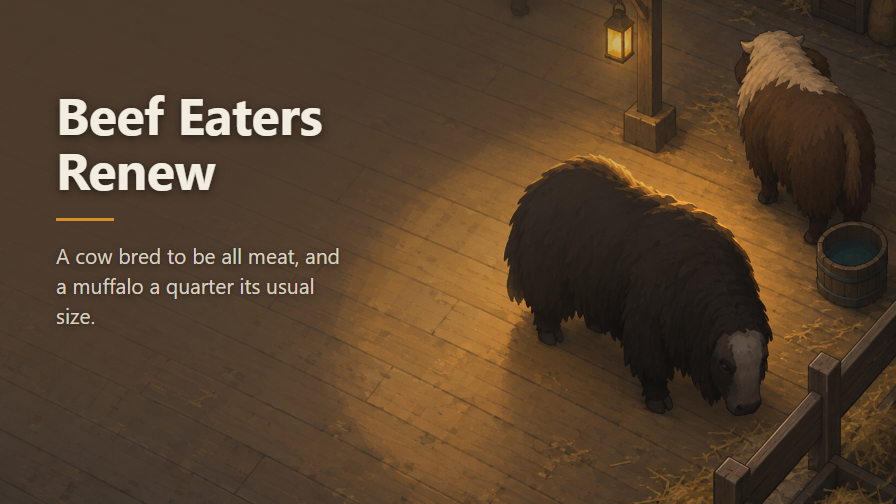
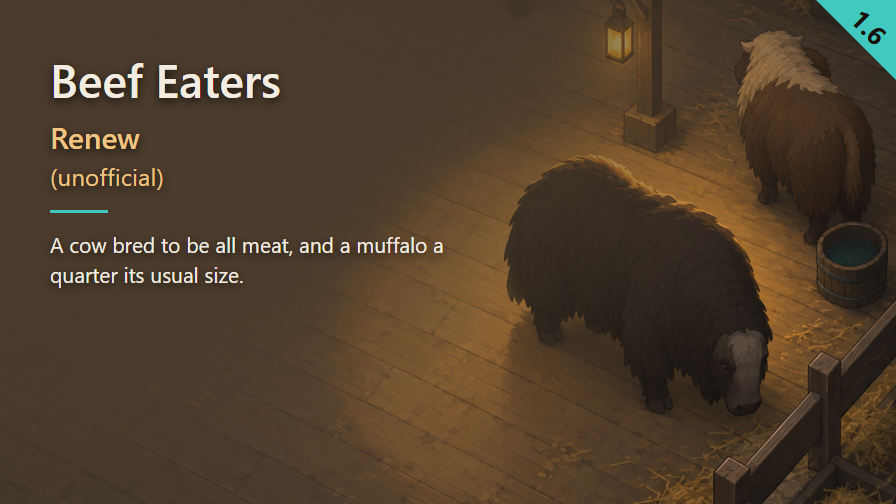
Recompose preview with title hierarchy and verified palette

diff --git a/Art/preview.html b/Art/preview.html
@@ -1,69 +1,37 @@
-<!doctype html><meta charset="utf-8">
-<!--
-  Engraving page for Mod/About/Preview.png, per STYLE_RIMWORLD.md.
-
-  Rasterised with headless Chrome at 896x504, so the glyphs are composed at final size and never
-  resampled. The background is Preview-source.png at full resolution, scaled and cropped here
-  rather than beforehand: starting from an already-reduced Preview.png would resample the picture
-  twice.
-
-    chrome --headless --disable-gpu --screenshot=Mod/About/Preview.png \
-           --window-size=896,504 --hide-scrollbars Art/preview.html
-
-  The source is 1380x1140, close to 6:5, so a third of its height has to go to reach 16:9. The
-  crop is taken low: the top strip is empty plank floor and a settler walking out of frame, while
-  the band below holds the lantern, the lit animal under it and the straw at the fence.
-
-  The veil is the wood of the floor rather than the near-black the first 54 showcases used - the
-  rule of 2026-09-12 is that the veil takes a colour from the picture, and here the picture is a
-  barn floor at night, so the colour it has to give is a warm plank brown. Sampled over the block
-  the text occupies, mean rgb(109,80,50), then taken down a notch to #4A3A2C so it reads as one
-  flat field rather than as a stain over the planks. Its relative luminance is 0.047, well under
-  the 0.18 line, so the ink is the pale one and the text shadows stay: they lift the glyphs off
-  the planks that show through at the end of the wash. The rule keeps the repository amber, which
-  a dark brown carries without trouble.
-
-  No count is engraved. Two animals would be a true number and a pointless one - the summary
-  names them both.
--->
+<!doctype html>
+<meta charset="utf-8">
+<title>Beef Eaters Renew preview</title>
 <style>
-  * { margin:0; padding:0; box-sizing:border-box; }
-  html,body { width:896px; height:504px; overflow:hidden; background:#000; }
-  .stage { position:relative; width:896px; height:504px;
-           font-family:"Segoe UI",system-ui,sans-serif; }
-
-  .shot { position:absolute; inset:0; width:896px; height:504px;
-          object-fit:cover; object-position:50% 62%; }
-
-  /* Repository standard: a wash from the top-left corner, in the dark form, because the veil
-     colour is dark. It lands on the bare plank floor left of the lamp pool, which is the calmest
-     corner of the picture and the one the prompt reserved.
-
-     Two departures from the standard 74% circle, both measured rather than chosen. The lamp pool
-     reaches further left than any of the first 54 pictures did, and the standard wash was dead by
-     the time it met it: the tail of the summary sat at 2.0:1. The wash is stretched to 88% and the
-     text column narrowed from 430 to 392px, which breaks the summary before it reaches the light.
-     Worst point over a glyph is now 6.5:1, against the 4.5:1 the guide asks for. */
-  .veil { position:absolute; inset:0;
-    background: radial-gradient(ellipse 760px 560px at top left, rgba(74,58,44,.94) 0%, rgba(74,58,44,.88) 45%, rgba(74,58,44,0) 100%); }
-
-  .text { position:absolute; left:56px; top:86px; width:392px; }
-  h1 { font-size:52px; line-height:1.06; font-weight:700; color:#F2ECE1; letter-spacing:-.5px;
-       text-shadow:0 2px 10px rgba(0,0,0,.55); }
-  .rule { width:58px; height:3px; background:#D68F2C; margin:22px 0 20px; }
-  /* The summary is 290px wide rather than the repository's 430. Measured on the rendered PNG,
-     with the veil in place: the title rows are safe out to x=500, the summary rows only to 346,
-     because they sit lower and the lamp pool climbs into that column. 56 + 290 = 346. The
-     paragraph runs to three lines instead of two; the alternative was a tail at 2.9:1. */
-  p { font-size:21px; line-height:1.42; color:#D8CFC0; text-shadow:0 1px 6px rgba(0,0,0,.5);
-      width:290px; }
+* { margin:0; padding:0; box-sizing:border-box; }
+html,body,.stage { width:896px; height:504px; overflow:hidden; }
+.stage { position:relative; font-family:"Segoe UI",system-ui,sans-serif; }
+.shot { position:absolute; inset:0; width:896px; height:504px; object-fit:cover; object-position:50% 62%; }
+.veil { position:absolute; inset:0; background:radial-gradient(ellipse 920px 700px at top left, rgb(var(--veilRGB) / .96) 0%, rgb(var(--veilRGB) / .92) 48%, rgb(var(--veilRGB) / 0) 100%); }
+.text { position:absolute; left:50px; top:54px; width:430px; text-shadow:0 3px 10px rgba(0,0,0,.75); }
+h1 { font-size:46px; font-weight:600; line-height:1.1; letter-spacing:0; color:var(--inkPrimary); }
+h1 .title-suffix { font-size:.65em; color:var(--inkSecondary); }
+.tag { margin-top:8px; font-size:24px; font-weight:400; line-height:1.1; letter-spacing:.2px; color:var(--inkSecondary); }
+.rule { width:58px; height:3px; margin:20px 0 16px; background:var(--accent); }
+p { width:430px; font-size:21px; font-weight:400; line-height:1.45; letter-spacing:0; color:var(--inkPrimary); }
+.badge { position:absolute; top:0; right:0; width:80px; height:80px; background:var(--accent); clip-path:polygon(0 0,100% 0,100% 100%); }
+.version { position:absolute; left:869px; top:27px; transform:translate(-50%,-50%) rotate(45deg); color:var(--badgeInk); font-size:26px; font-weight:700; line-height:1; }
 </style>
 <div class="stage">
-  <img class="shot" src="Preview-source.png">
-  <div class="veil"></div>
-  <div class="text">
-    <h1>Beef Eaters<br>Renew</h1>
-    <div class="rule"></div>
-    <p>A cow bred to be all meat, and a muffalo a quarter its usual size.</p>
-  </div>
+<img class="shot" src="Preview.png">
+<div class="veil"></div>
+<div class="text"><h1>Beef Eaters<br><span class="title-suffix">Renew</span></h1><div class="tag">(unofficial)</div><div class="rule"></div><p>A cow bred to be all meat, and a muffalo a quarter its usual size.</p></div>
+<div class="badge"></div><div class="version"></div>
 </div>
+<script>
+window.previewReady = (async () => {
+ const palette = await (await fetch('preview-palette.json')).json();
+ for (const [key,value] of Object.entries(palette)) document.documentElement.style.setProperty('--'+key,value);
+ document.documentElement.style.setProperty('--veilRGB',palette.veil.slice(1).match(/../g).map(v=>parseInt(v,16)).join(' '));
+ const xml = new DOMParser().parseFromString(await (await fetch('../Mod/About/About.xml')).text(),'text/xml');
+ const versions = [...xml.querySelectorAll('supportedVersions > li')].map(n=>n.textContent.trim()).filter(v=>/^\d+(\.\d+)+$/.test(v));
+ versions.sort((a,b)=>{const aa=a.split('.').map(Number),bb=b.split('.').map(Number);for(let i=0;i<Math.max(aa.length,bb.length);i++){const d=(aa[i]||0)-(bb[i]||0);if(d)return d;}return 0;});
+ document.querySelector('.version').textContent=versions.at(-1);
+ await document.fonts.ready;
+ await document.querySelector('.shot').decode();
+})();
+</script>

diff --git a/STATUS.md b/STATUS.md
@@ -118,26 +118,39 @@ establish that the author is inactive everywhere, nor supply an explicit redistr
 
 ## How the showcase was built
 
-Both pictures were generated on 2026-09-12 and processed the same day, per `STYLE_RIMWORLD.md`.
-The full-resolution originals are in `Art/`, never in `About/`.
+Overlay recomposed on 2026-09-12 according to `../STYLE_RIMWORLD.md`.
 
-`Art/preview.html` is the engraving page: headless Chrome rasterises it at 896 × 504, so the
-glyphs are composed at final size and never resampled. The veil follows the rule of 2026-09-12 —
-a colour taken from the picture rather than the old near-black — and here that colour is the plank
-floor, `#4A3A2C`, sampled over the block the text occupies. Its luminance is 0.047, under the
-0.18 line, so the ink is the pale one and the shadows stay.
+- **Source:** `Art/Preview.png`, copied byte-for-byte from the existing unlettered
+  `Art/Preview-source.png`. The illustration was retained, not replaced; the original remains
+  available at its previous path. Its known subject mismatch remains recorded above.
+- **Composition:** `Art/preview.html`, at 896 x 504. Name and summary preserved. The tag is
+  separate from the title. Strong title words and summary share the same primary ink. Renew
+  remains in the title at 65% (29.9 px), weight 600, in secondary ink. Placement, typography,
+  rule and triangular version badge follow the guide. Version is read from the delivered
+  `Mod/About/About.xml`, choosing the highest stable declared version (currently 1.6).
+- **Palette:** `Art/preview-palette.json` is the sole colour reference, loaded by the HTML.
+  The veil comes from the broad brown plank floor. The secondary ink is a lightened, coloured
+  ochre from the dominant wood/straw family, not an average of the pixels. The vivid accent
+  comes from the blue-green water visible in the bucket, lightened and saturated into turquoise.
+  This cool family clearly separates the rule and badge from the warm ochre secondary ink and
+  dominant wooden scene. The darker veil is held across the text area to protect contrast.
+- **Rendering:** `Art/render-preview.cjs` serves the local composition, waits for
+  `document.fonts.ready` and image decoding, then captures at device scale 1. Run with Node.js,
+  Playwright and sharp available through NODE_PATH. Actual Chrome platform fonts were verified:
+  Segoe UI Semibold for the title, Segoe UI regular for tag/summary, Segoe UI Bold for the badge.
+  No fallback font was used.
+- **QA:** `Art/preview-qa.json` records font evidence, bounds, dimensions, size and contrast.
+  `Art/preview-background.png` is the rendered background with lettering hidden. Minimum
+  contrasts across the entire text rectangles, including corners and all interior pixels:
+  primary title ink 7.50:1, Renew 6.57:1, summary 4.69:1, tag 4.72:1.
+  Badge digits on the opaque accent: 9.16:1.
+  Shadows were not credited in these measurements.
+- **Visual checks:** inspected `Mod/About/Preview.png` at 896 x 504 and
+  `Art/preview-268.png` at 268 px wide. No clipped text or overlap; title and version identifiable,
+  reduced title suffix readable, rule visible, cool accent distinct from the warm secondary ink.
+  Output: 459,203 bytes, below 900 KB. No publication performed.
 
-Two departures from the standard, both measured rather than chosen: the wash holds its strength
-further out, and the summary column is 290px rather than 430. The lamp pool climbs into the text
-column lower down, where the standard wash was already dead, and the tail of the summary measured
-2.9:1 against the 4.5:1 the guide requires. Worst point under a glyph is now 5.6:1, verified on
-the rendered PNG with the text hidden.
-
-| | |
-|---|---|
-| `About/Preview.png` | 896 × 504, 509 KB |
-| `About/ModIcon.png` | 128 × 128, 21 KB |
-
+The icon is unchanged: `Mod/About/ModIcon.png`, 128 x 128.
 ## What was fixed on 2026-09-12, and what it cost
 
 Three faults, none of them introduced by the port, all found while writing `TESTING.md`.
